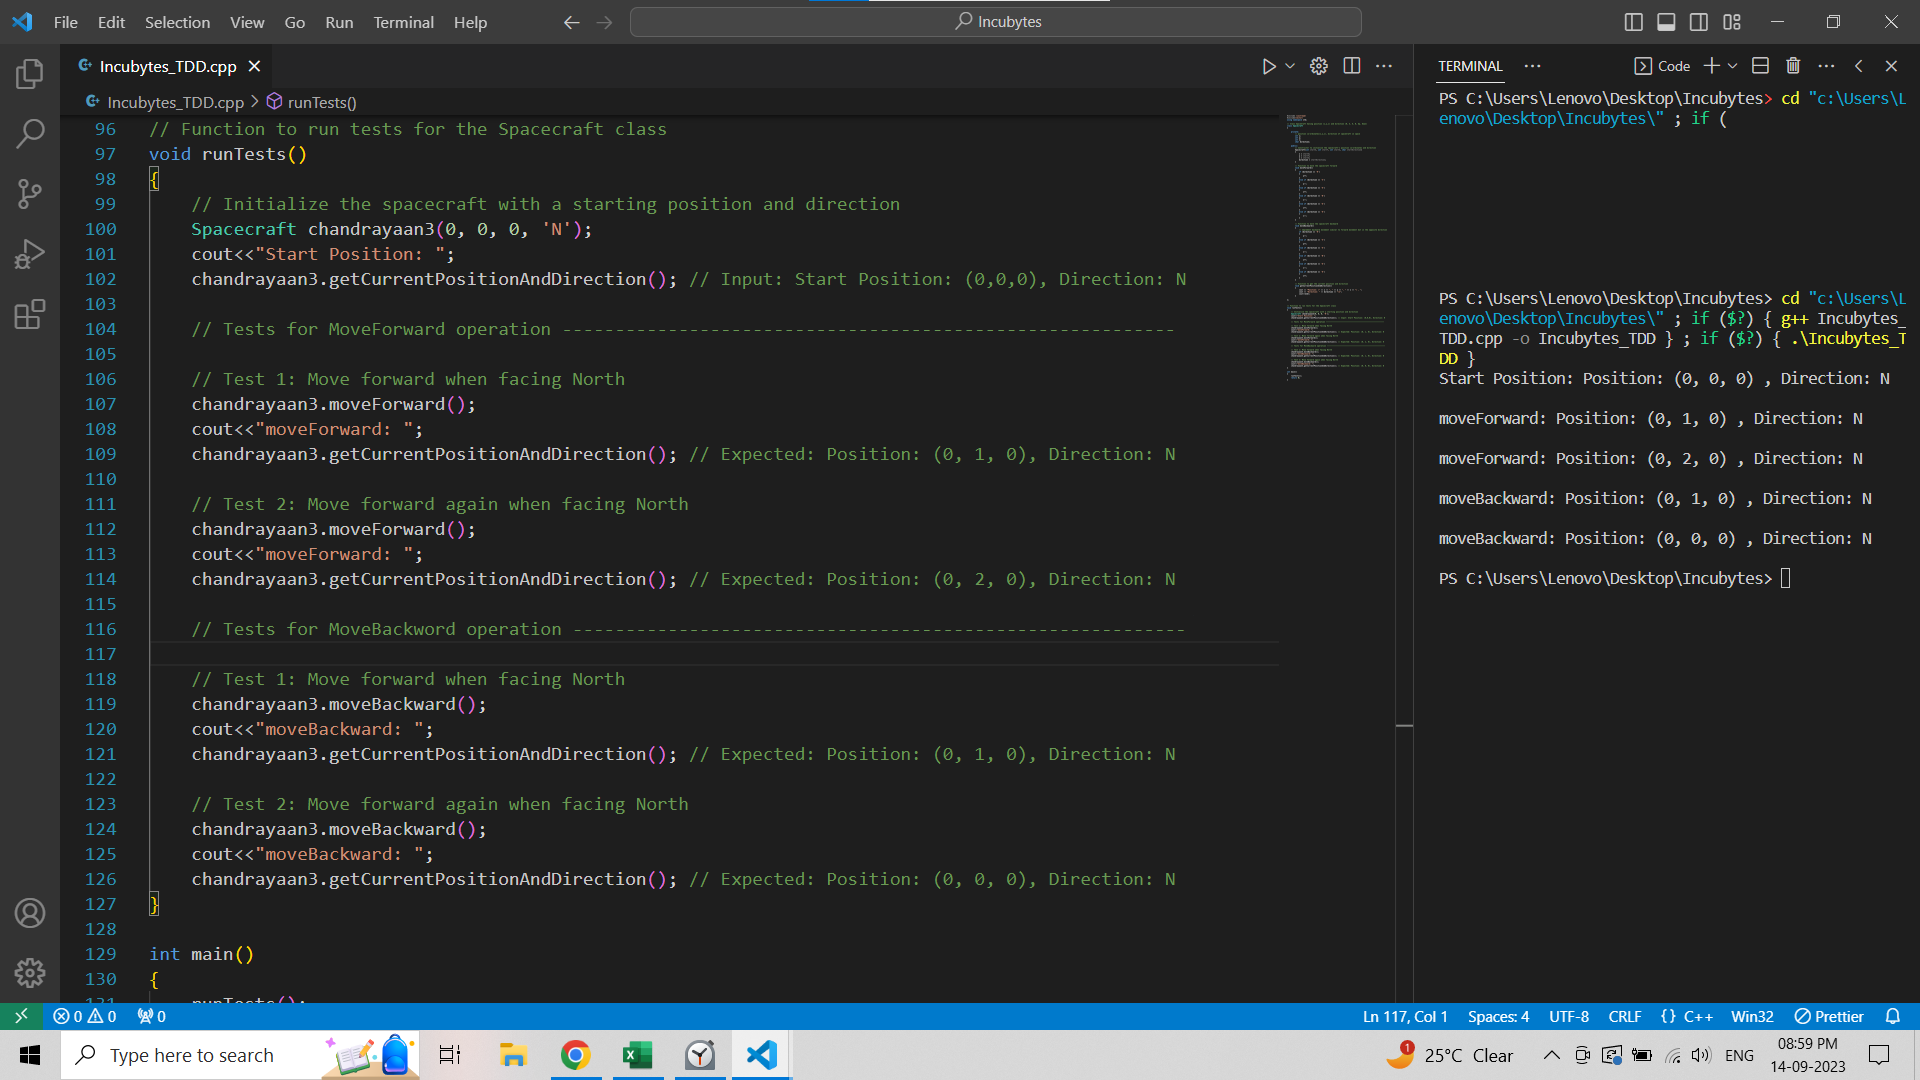
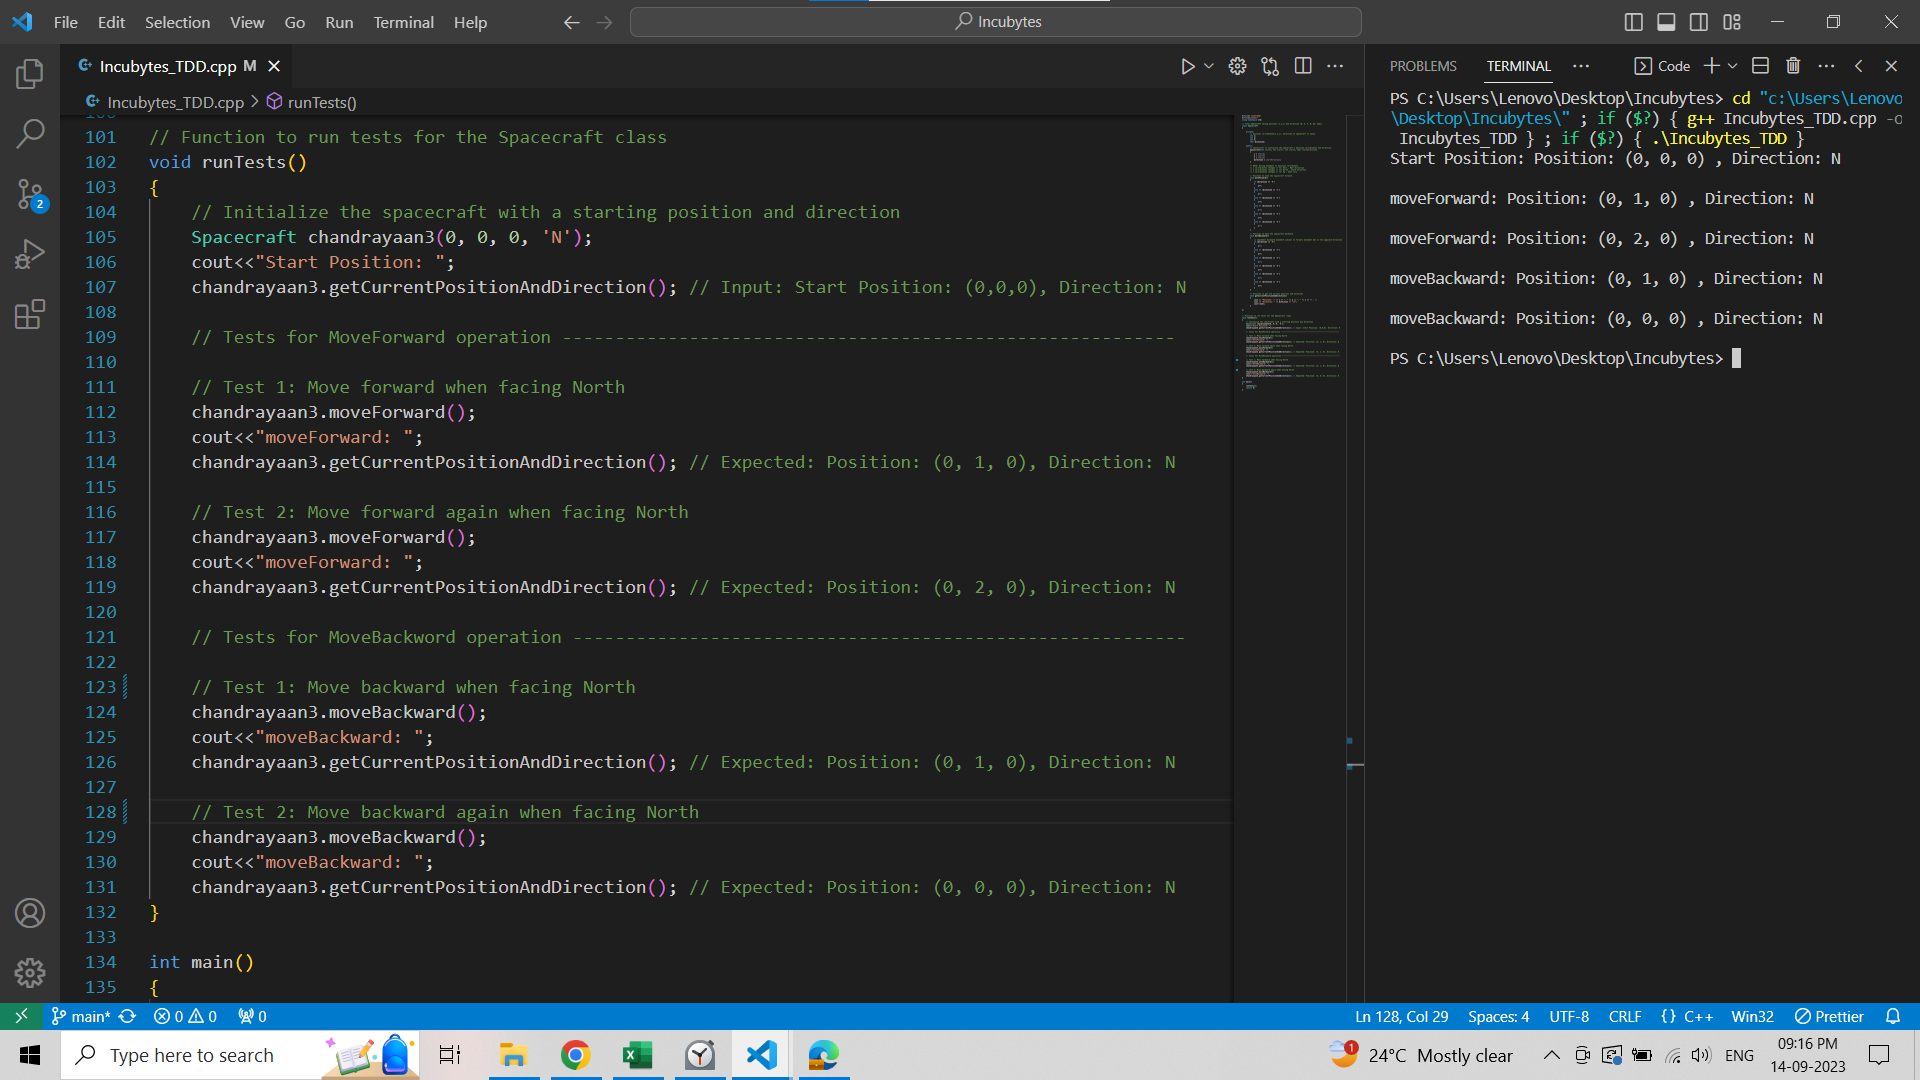
added unit tests for turnLeft function and tested it

diff --git a/Incubytes_TDD.cpp b/Incubytes_TDD.cpp
@@ -87,6 +87,35 @@ class Spacecraft
             }
         }
 
+        // Function to turn the spacecraft left (based on spaceCraft's left hand)
+        void turnLeft()
+        {
+            if (direction == 'N')
+            {
+                direction = 'W';
+            }
+            else if (direction == 'S')
+            {
+                direction = 'E';
+            }
+            else if (direction == 'E')
+            {
+                direction = 'N';
+            }
+            else if (direction == 'W')
+            {
+                direction = 'S';
+            }
+            else if (direction == 'U')
+            {
+                direction = 'N'; // Left turn while facing up becomes North
+            }
+            else if (direction == 'D')
+            {
+                direction = 'S'; // Left turn while facing down becomes South
+            }
+        }
+
         // Function to get the current position and direction
         void getCurrentPositionAndDirection()
         {
@@ -120,15 +149,27 @@ void runTests()
     
     // Tests for MoveBackword operation ----------------------------------------------------------
 
-    // Test 1: Move forward when facing North
+    // Test 1: Move backward when facing North
     chandrayaan3.moveBackward();
     cout<<"moveBackward: ";
     chandrayaan3.getCurrentPositionAndDirection(); // Expected: Position: (0, 1, 0), Direction: N
 
-    // Test 2: Move forward again when facing North 
+    // Test 2: Move backward again when facing North 
     chandrayaan3.moveBackward();
     cout<<"moveBackward: ";
     chandrayaan3.getCurrentPositionAndDirection(); // Expected: Position: (0, 0, 0), Direction: N
+    
+    // Tests for TurnLeft operation ----------------------------------------------------------
+
+    // Test 1: Turn Left when facing North
+    chandrayaan3.turnLeft();
+    cout<<"turnLeft: ";
+    chandrayaan3.getCurrentPositionAndDirection(); // Expected: Position: (0, 0, 0), Direction: W
+
+    // Test 2: Turn Left again when facing North 
+    chandrayaan3.turnLeft();
+    cout<<"turnLeft: ";
+    chandrayaan3.getCurrentPositionAndDirection(); // Expected: Position: (0, 0, 0), Direction: S
 }
 
 int main()
